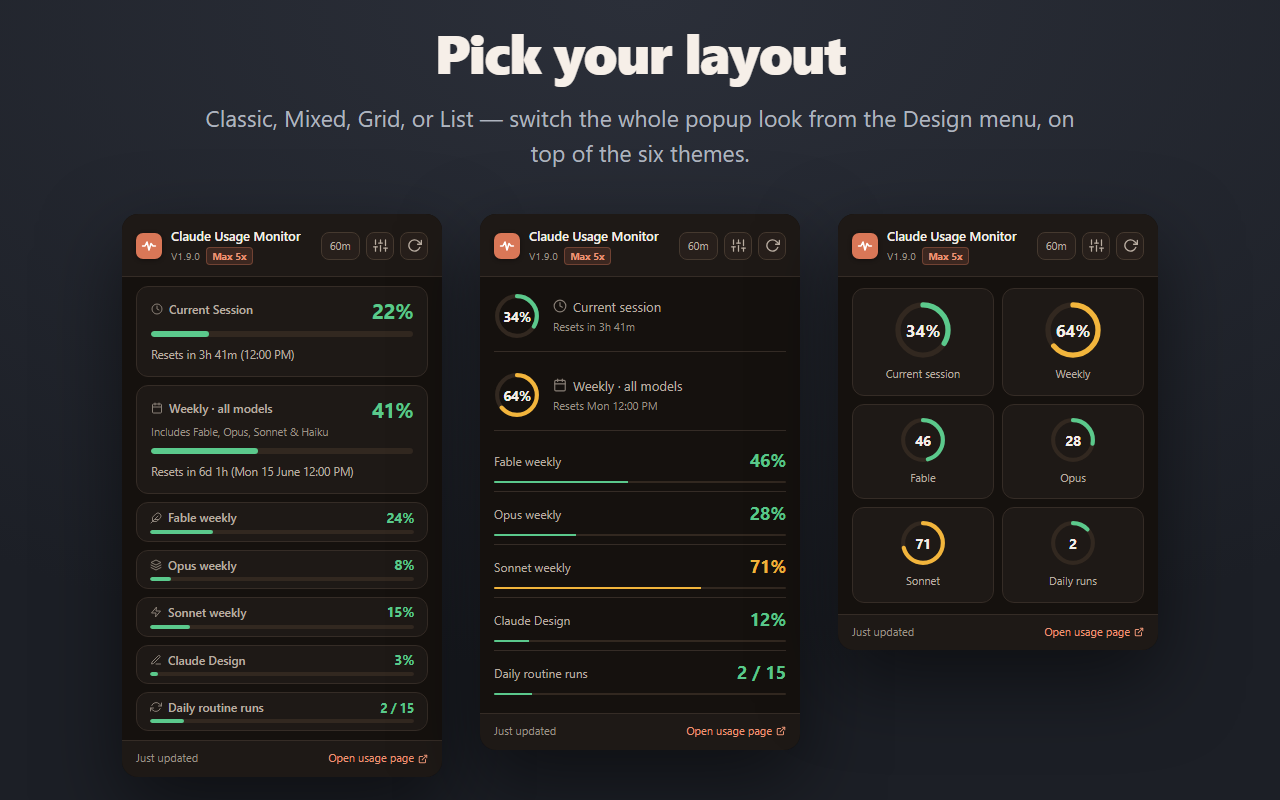
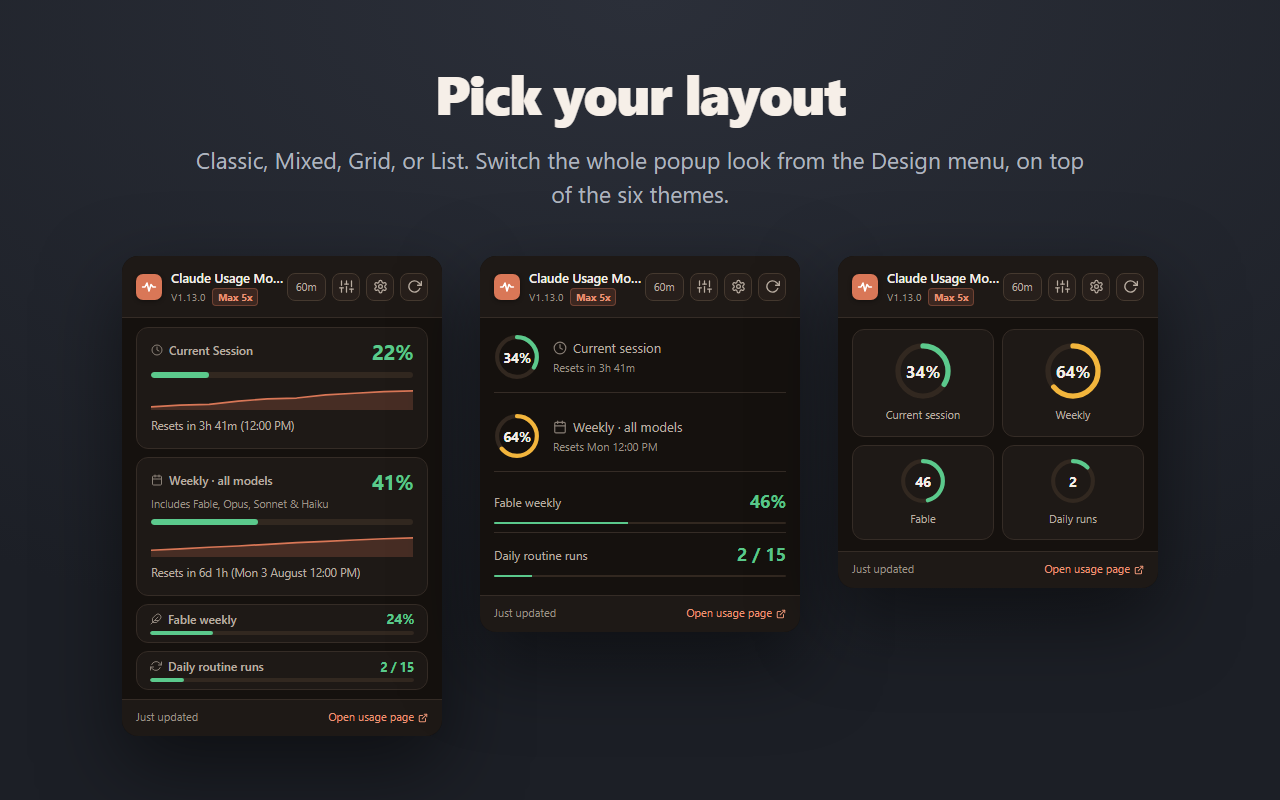
Bring the README up to date with v1.13.0
The badge still said 1.9.1 and the page described a product from four minor
versions ago: no usage history, no trend line, no notifications, no layouts,
no extra credits. The screenshots were v1.9.0 renders with no curve in them.

Adds sections for the history and for notifications, refreshes the three
existing shots and adds the history one, and corrects the buckets, features,
project structure and privacy lists.

diff --git a/README.md b/README.md
@@ -1,13 +1,13 @@
 # Claude Usage Monitor
 
 [![License: MIT](https://img.shields.io/badge/License-MIT-yellow.svg)](LICENSE)
-[![Version](https://img.shields.io/badge/version-1.9.1-blue.svg)](extension/manifest.json)
+[![Version](https://img.shields.io/badge/version-1.13.0-blue.svg)](extension/manifest.json)
 [![Chrome Web Store](https://img.shields.io/badge/Chrome-Web%20Store-brightgreen.svg)](https://chromewebstore.google.com/detail/claude-usage-monitor-sess/bfhdcfiigpaaopklllpobkheakpigbfo)
 [![Firefox Add-ons](https://img.shields.io/badge/Firefox-Add--ons-orange.svg)](https://addons.mozilla.org/firefox/addon/claude-usage-meter/)
 
 Claude Usage Monitor is a Manifest V3 browser extension for Claude.ai that shows your current usage directly from the toolbar popup. **Open source (MIT)**: all code in this repo is exactly what runs in your browser.
 
-![Claude Usage Monitor popup showing session, weekly and per-model usage with reset countdowns](docs/screenshots/overview.png)
+![Claude Usage Monitor popup showing session, weekly and per-model usage with reset countdowns and a trend line under each bar](docs/screenshots/overview.png)
 
 It displays your usage buckets:
 
@@ -15,24 +15,45 @@ It displays your usage buckets:
 - **Weekly limit**: the weekly usage percentage across all models.
 - **Per-model weekly sub-limits**: Fable, Opus, Sonnet and Claude Design weekly usage (on paid plans). Show or hide each from the **Metrics** section of the popup's options menu.
 - **Daily routine runs**: included Claude Code routine runs as a `used / limit` count (on plans that include them).
+- **Paid extra credits**: spend against your monthly limit, plus your remaining prepaid balance, when your plan has them enabled.
 - **Your plan**: a badge in the popup header shows your Claude subscription (e.g. *Max 5x*).
+
+## Usage history
+
+Every successful refresh is recorded locally as one sample, so the popup can draw a trend line under each bar: 15% with four hours left stops looking the same as 15% reached in twenty minutes.
+
+![The popup trend line with the hover readout, next to the history settings panel](docs/screenshots/history.png)
+
+- Hover any curve to read the exact time and value of the sample under the cursor. It snaps to the nearest stored reading and never interpolates.
+- The horizontal axis is the live reset window, so a curve never crosses a reset and never stretches a short history across the full width.
+- Retention is configurable up to 30 days, with a one-click clear and export to JSON or CSV.
+- A refresh that fails writes nothing. A gap in the series means the reading was unavailable, never that usage was zero, and the export keeps that distinction.
+- Turn the curve off under **Trend line** in the view menu.
+
+## Notifications
+
+Desktop alerts fire at 80% and 95% for your session, weekly and per-model caps, once per threshold per reset window. Thresholds are configurable in the settings page, and the whole feature can be turned off. The `notifications` permission is optional and requested at runtime, so the extension never asks for it until you enable alerts.
 
 ## How it works
 
 The extension refreshes usage through Claude.ai's internal authenticated API.
 
-- Automatic refresh runs every 5 minutes.
+- Automatic refresh at a configurable interval: 1, 2, 5, 10 or 60 minutes.
 - Manual refresh is available from the popup.
 - The popup shows the extension version so you can confirm which local build is loaded.
 - A badge in the header shows your Claude plan (e.g. Max 5x).
+- When your claude.ai session expires, an inline banner says so and the last known data stays visible instead of being replaced by zeros.
 
 ## Features
 
-- Toolbar badge showing the current session percentage.
+- Toolbar badge showing the current session percentage: green under 50%, yellow 50 to 80%, red above 80%.
 - Popup with current session and weekly usage cards.
 - Per-model weekly sub-limit cards (Fable, Opus, Sonnet and Claude Design), offered on paid plans.
-- **Display options** menu in the popup: a **Metrics** section to show/hide optional cards (per-model weekly limits and daily routine runs, with Select all / Deselect all), plus a **Theme** section with 6 color palettes; your choices are remembered.
+- Usage history with a trend line under the session, weekly and spend bars, hover readout, configurable retention and JSON/CSV export.
+- Desktop notifications at 80% and 95%, with configurable thresholds.
+- **Display options** menu in the popup: a **Metrics** section to show/hide optional cards (per-model weekly limits, daily routine runs and extra credits, with Select all / Deselect all), a **Design** section for the four layouts and the trend line, and a **Theme** section with six color palettes; your choices are remembered.
 - Daily routine-runs card (`used / limit`), shown only on plans that include routine runs.
+- Paid extra-credits card with spend, monthly limit and prepaid balance.
 - Subscription badge in the header (Max, Pro, Team, etc.).
 - Reset countdowns when Claude returns reset timestamps.
 - Manual refresh button.
@@ -90,14 +111,15 @@ For a permanent install, use the published add-on at <https://addons.mozilla.org
 ## Project structure
 
 - `extension/manifest.json`: extension manifest and permissions.
-- `extension/background.js`: automatic refresh logic, Claude API fetching, storage, and badge updates.
+- `extension/background.js`: automatic refresh logic, Claude API fetching, storage, usage-history sampling, threshold notifications, and badge updates.
 - `extension/popup.html`: popup markup.
 - `extension/popup.css`: popup styling.
-- `extension/popup.js`: popup rendering, manual refresh flow, and storage listeners.
+- `extension/popup.js`: popup rendering, sparklines and their hover readout, manual refresh flow, and storage listeners.
+- `extension/options.html` and `extension/options.js`: settings page with notification thresholds, history retention, export and clear.
 
 ## Privacy
 
-- All data is stored locally on your device via `chrome.storage.local`.
+- All data is stored locally on your device via `chrome.storage.local`, including the usage history: no account, no server, no sync.
 - No analytics, no telemetry, no third parties.
 - The extension cannot read your chats, projects, files, or any other Claude.ai content.
 - Host permissions are scoped to specific Claude.ai API endpoints. See [SECURITY.md](SECURITY.md) for the full permission breakdown.
